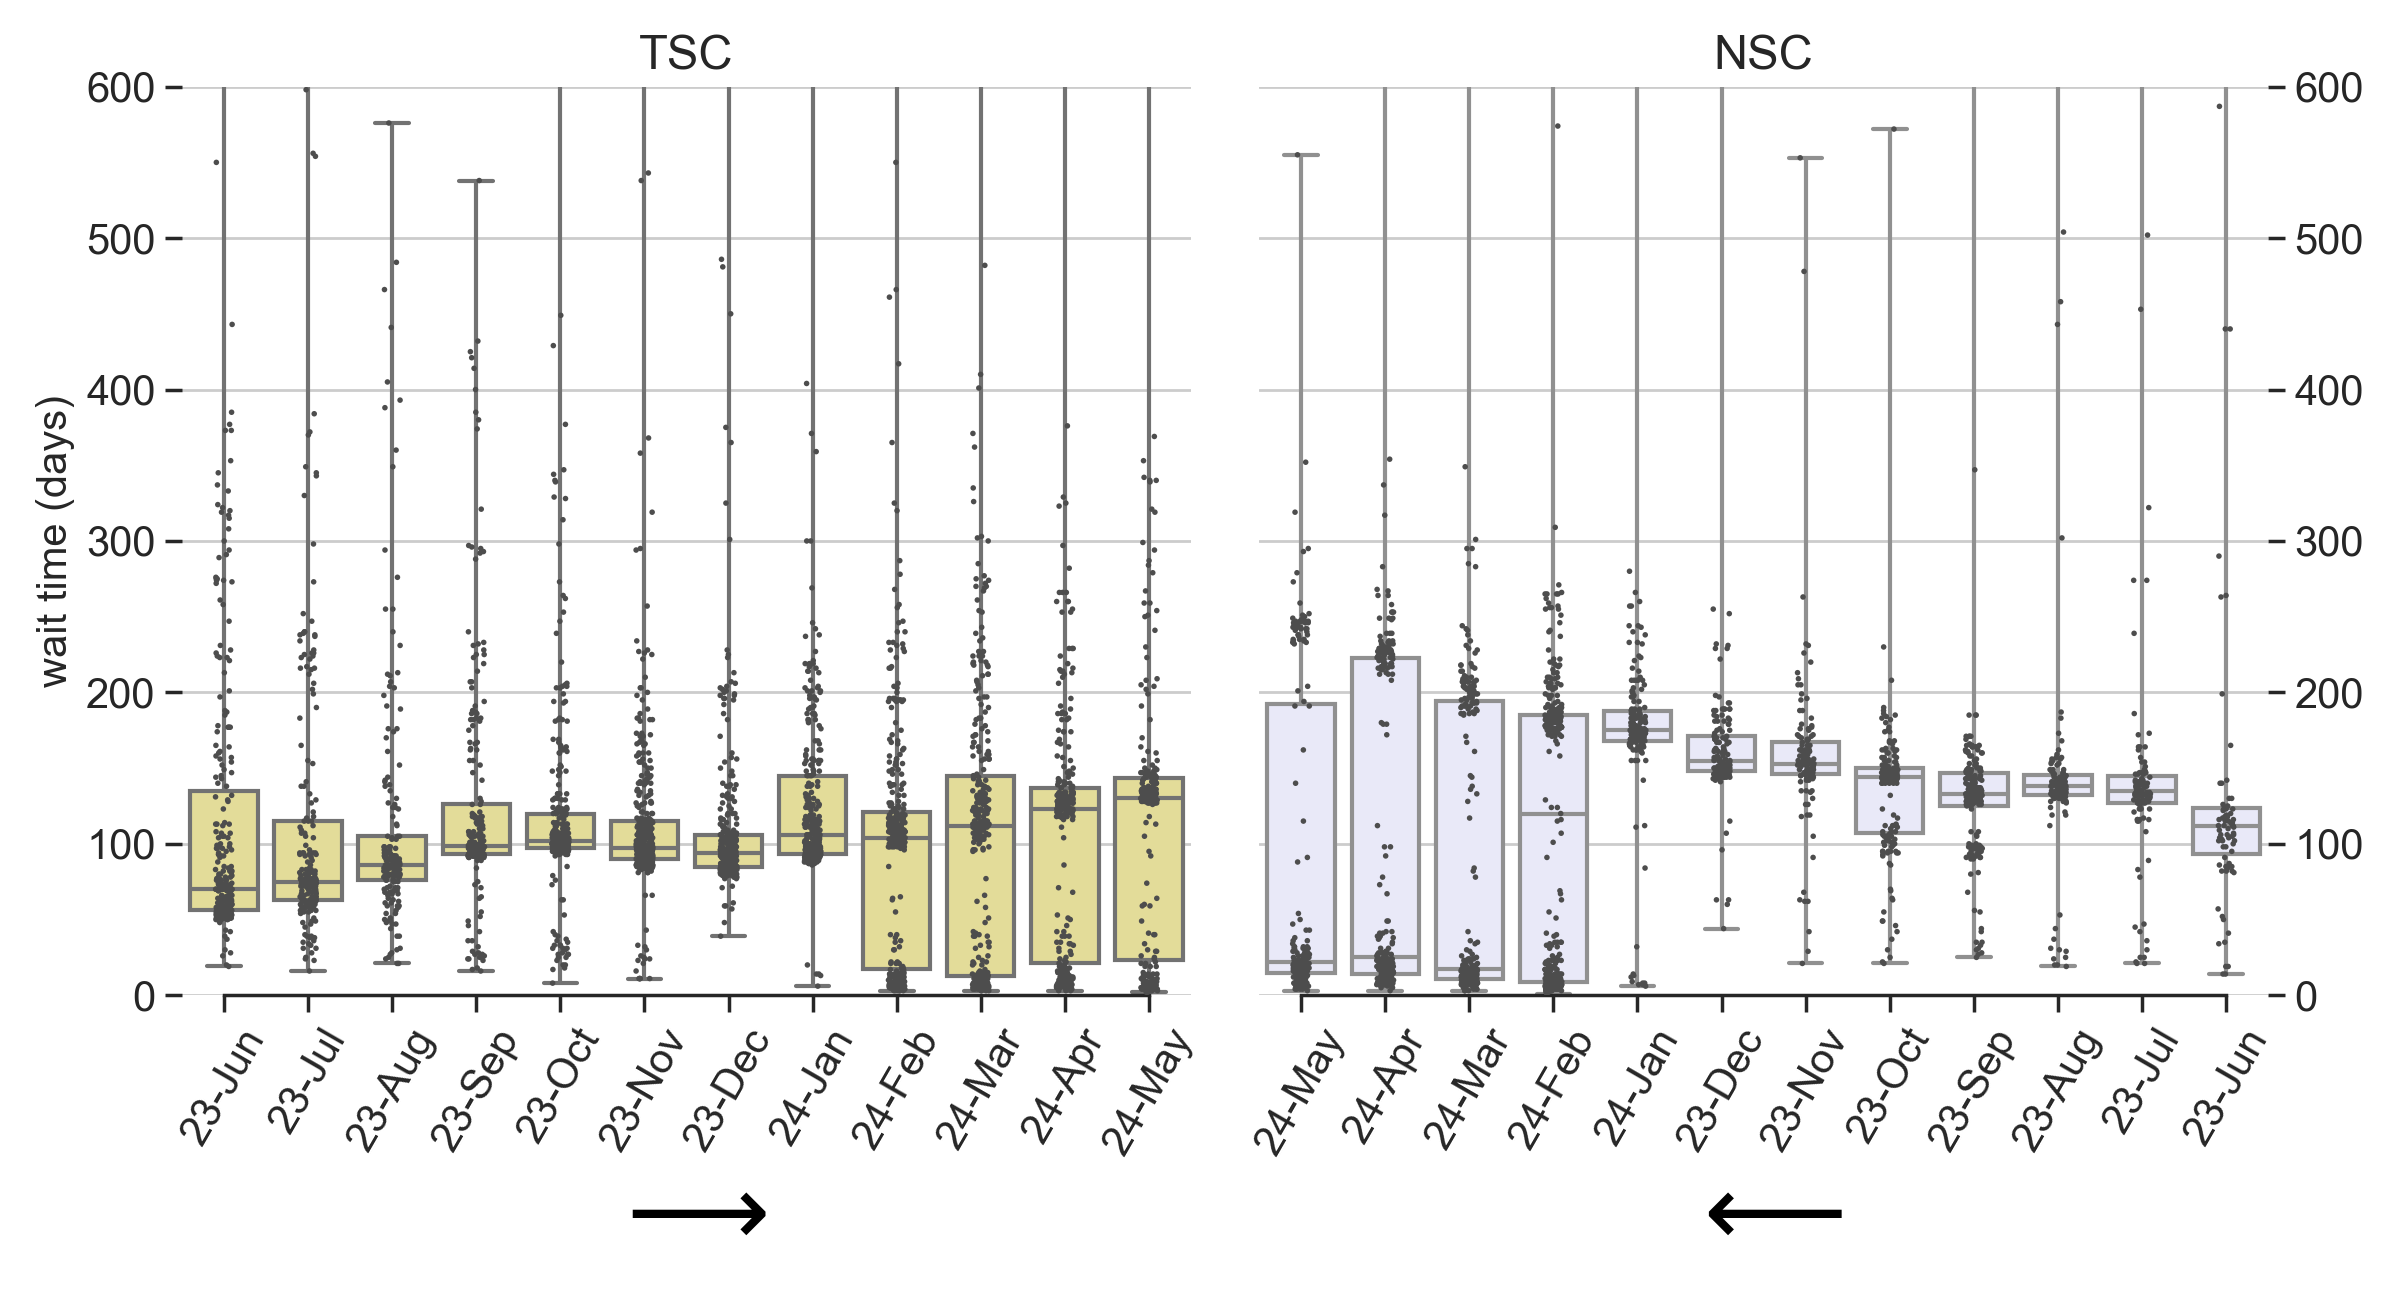
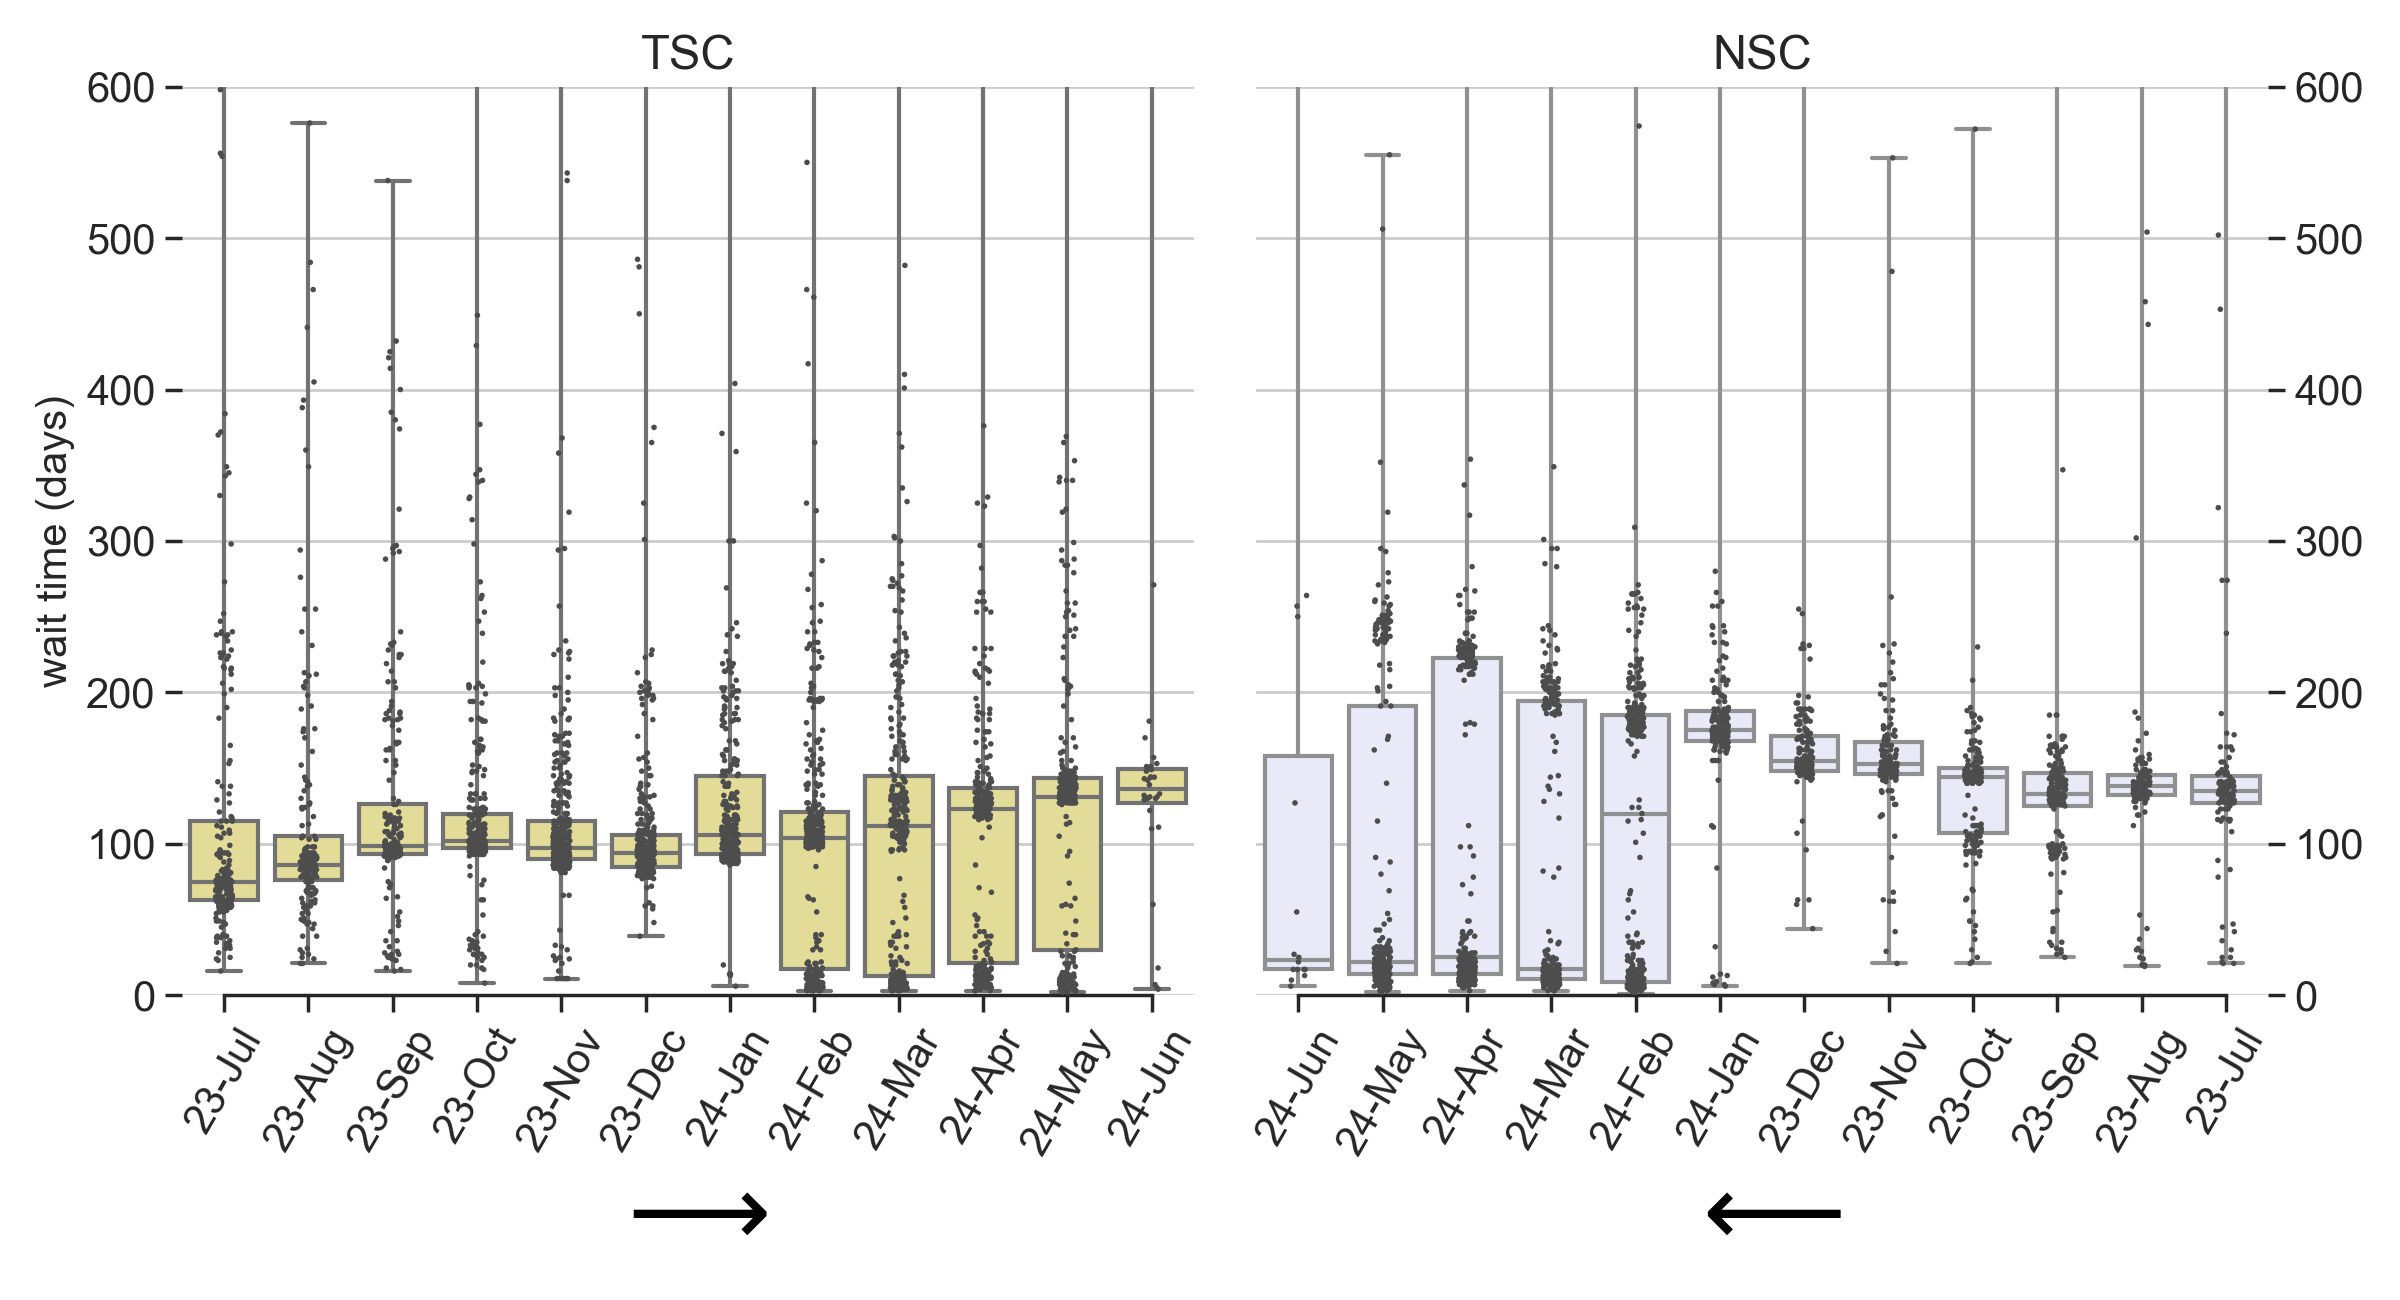
Jul-18 update

diff --git a/README.md b/README.md
@@ -1,4 +1,4 @@
-## National Interest Waiver Wait Time, updated Jul-07-2024 
+## National Interest Waiver Wait Time, updated Jul-18-2024 
 * sec203(b)(2), Indiv w/Adv Deg or Exceptional Ability in National Interest are counted as NIW cases from now on. 
  
 USCIS Employment-based-2 NIW I-140 wait time before approval (data source: [Victoria Chen](https://www.wegreened.com/eb1_niw_approvals)). 
